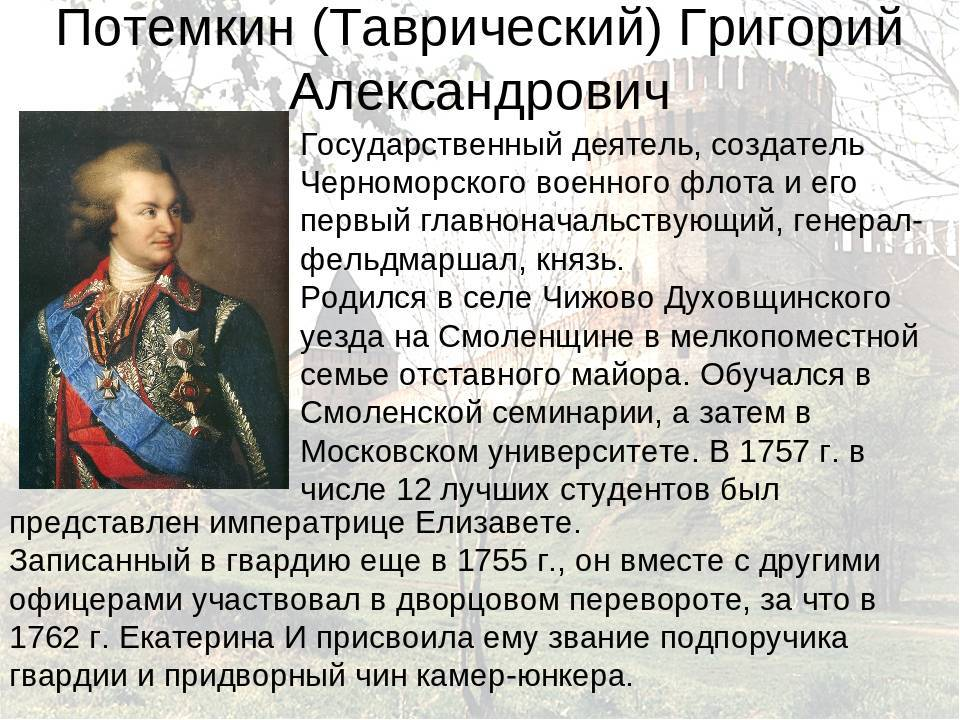
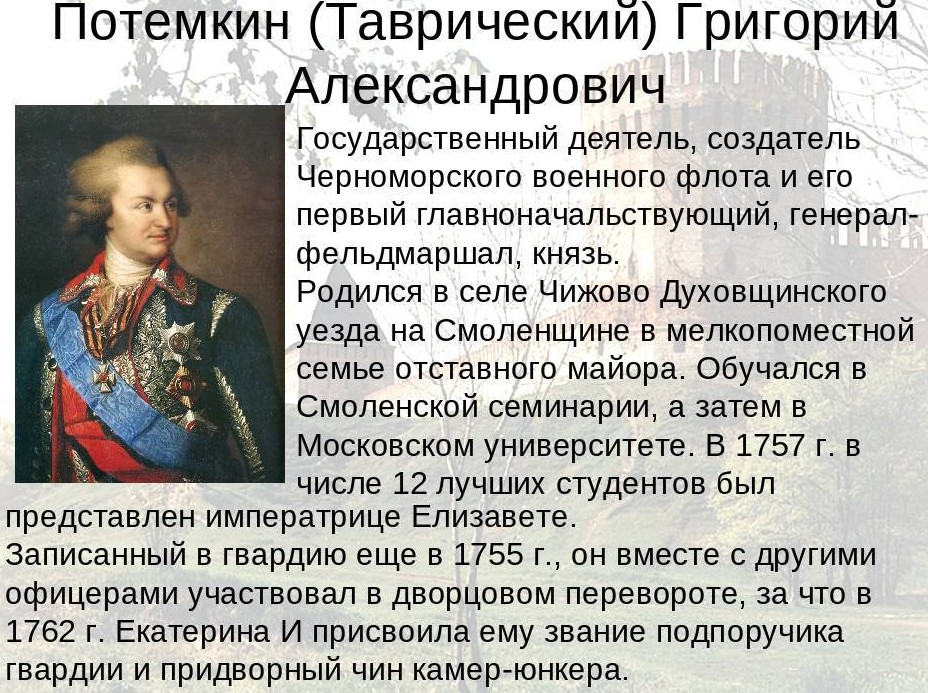
sec25

diff --git a/index.html b/index.html
@@ -110,8 +110,8 @@
 </div>
 
 <div id="vkladk5" class="tabcontent">
-<img class="opispic1" width="590px" src="styles/potemkin1.jpg" alt="Нет фото">
-<img class="opispic2" width="337px" src="styles/potemkin2.jpg" alt="Нет фото">  
+<img class="opispic1" width="575px" src="styles/potemkin1.jpg" alt="Нет фото">
+<img class="opispic2" width="330px" src="styles/potemkin2.jpg" alt="Нет фото">  
 </div>
 
 <div id="vkladk6" class="tabcontent">

diff --git a/audiomus.css b/audiomus.css
@@ -17,7 +17,7 @@ animation: 12s ubrat
     100% { opacity: 0; }
 }
 
-.opispic1{ 
+.opispic1{ margin-top: 25px;
 animation: 23s in-out infinite;
 }
 @keyframes in-out {
@@ -33,7 +33,7 @@ animation: 23s in-out infinite;
     90% { opacity: 0.9; }
     100% { opacity: 1; }
 }
-.opispic2{
+.opispic2{ margin-top: 25px;
 opacity: 0;
 animation: 23s in-out2 infinite;
 }
